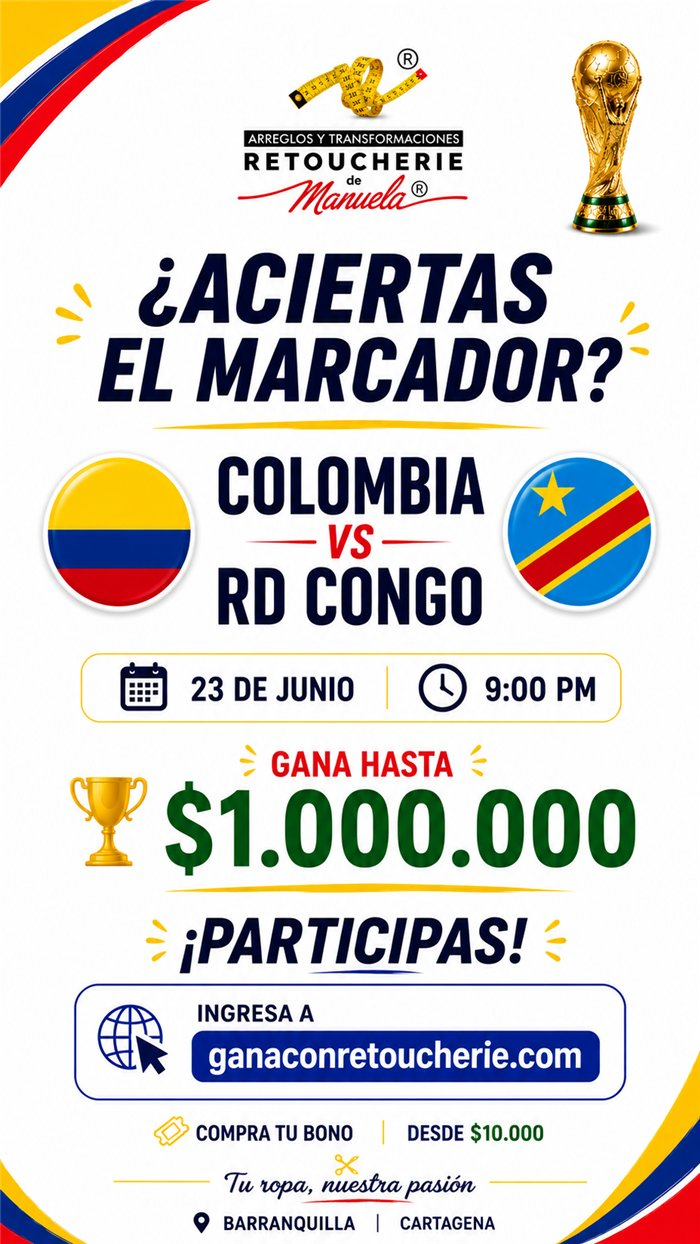
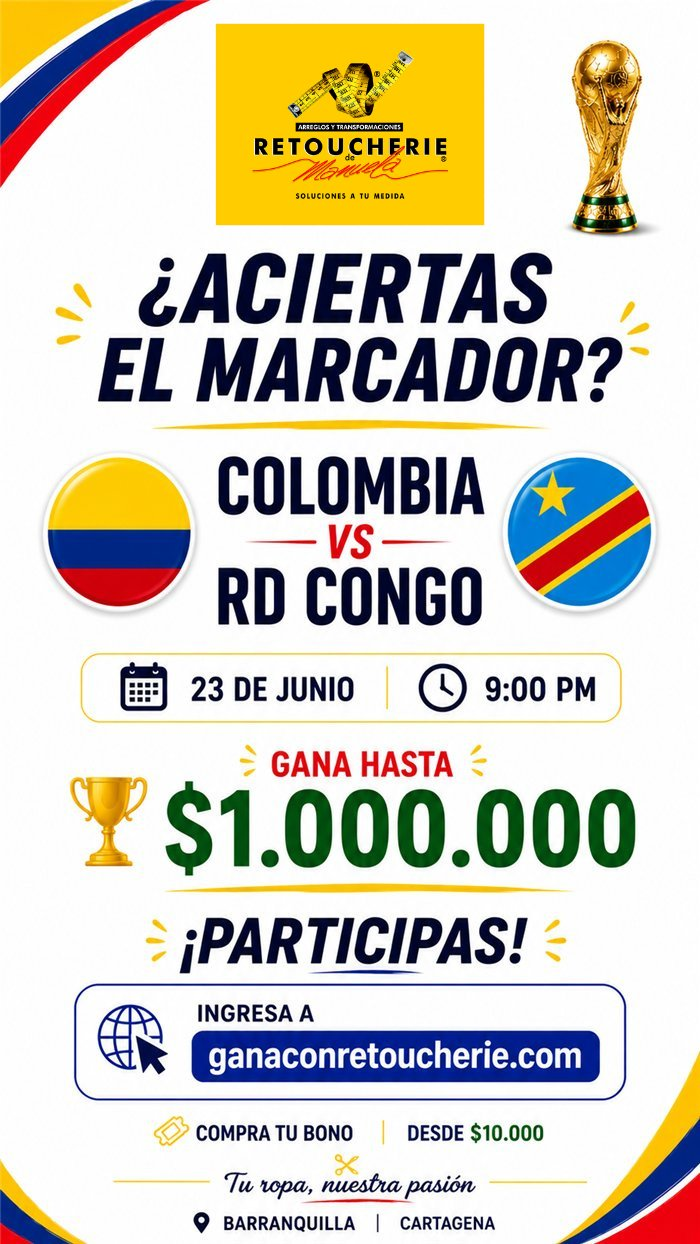
feat: actualizar flyer Colombia vs Congo y reducir su tamaño en el Hero
Se reemplaza el flyer por la nueva versión y se reduce su ancho a 1/5
para liberar espacio vertical y que el bloque "Cómo funciona" quede
visible también dentro de la misma vista del Home.

Changed region(s): [[0.3, 0.0, 0.69, 0.1833]]

diff --git a/src/components/HeroPrediccion.jsx b/src/components/HeroPrediccion.jsx
@@ -85,7 +85,7 @@ export default function HeroPrediccion() {
                     type="button"
                     onClick={irAlMarcador}
                     aria-label="Bajar a ingresar tu marcador"
-                    className="relative block w-full cursor-pointer active:scale-[0.98] transition-transform"
+                    className="relative block w-1/5 mx-auto cursor-pointer active:scale-[0.98] transition-transform"
                 >
                     <img
                         src={imagenColombiaCongo}